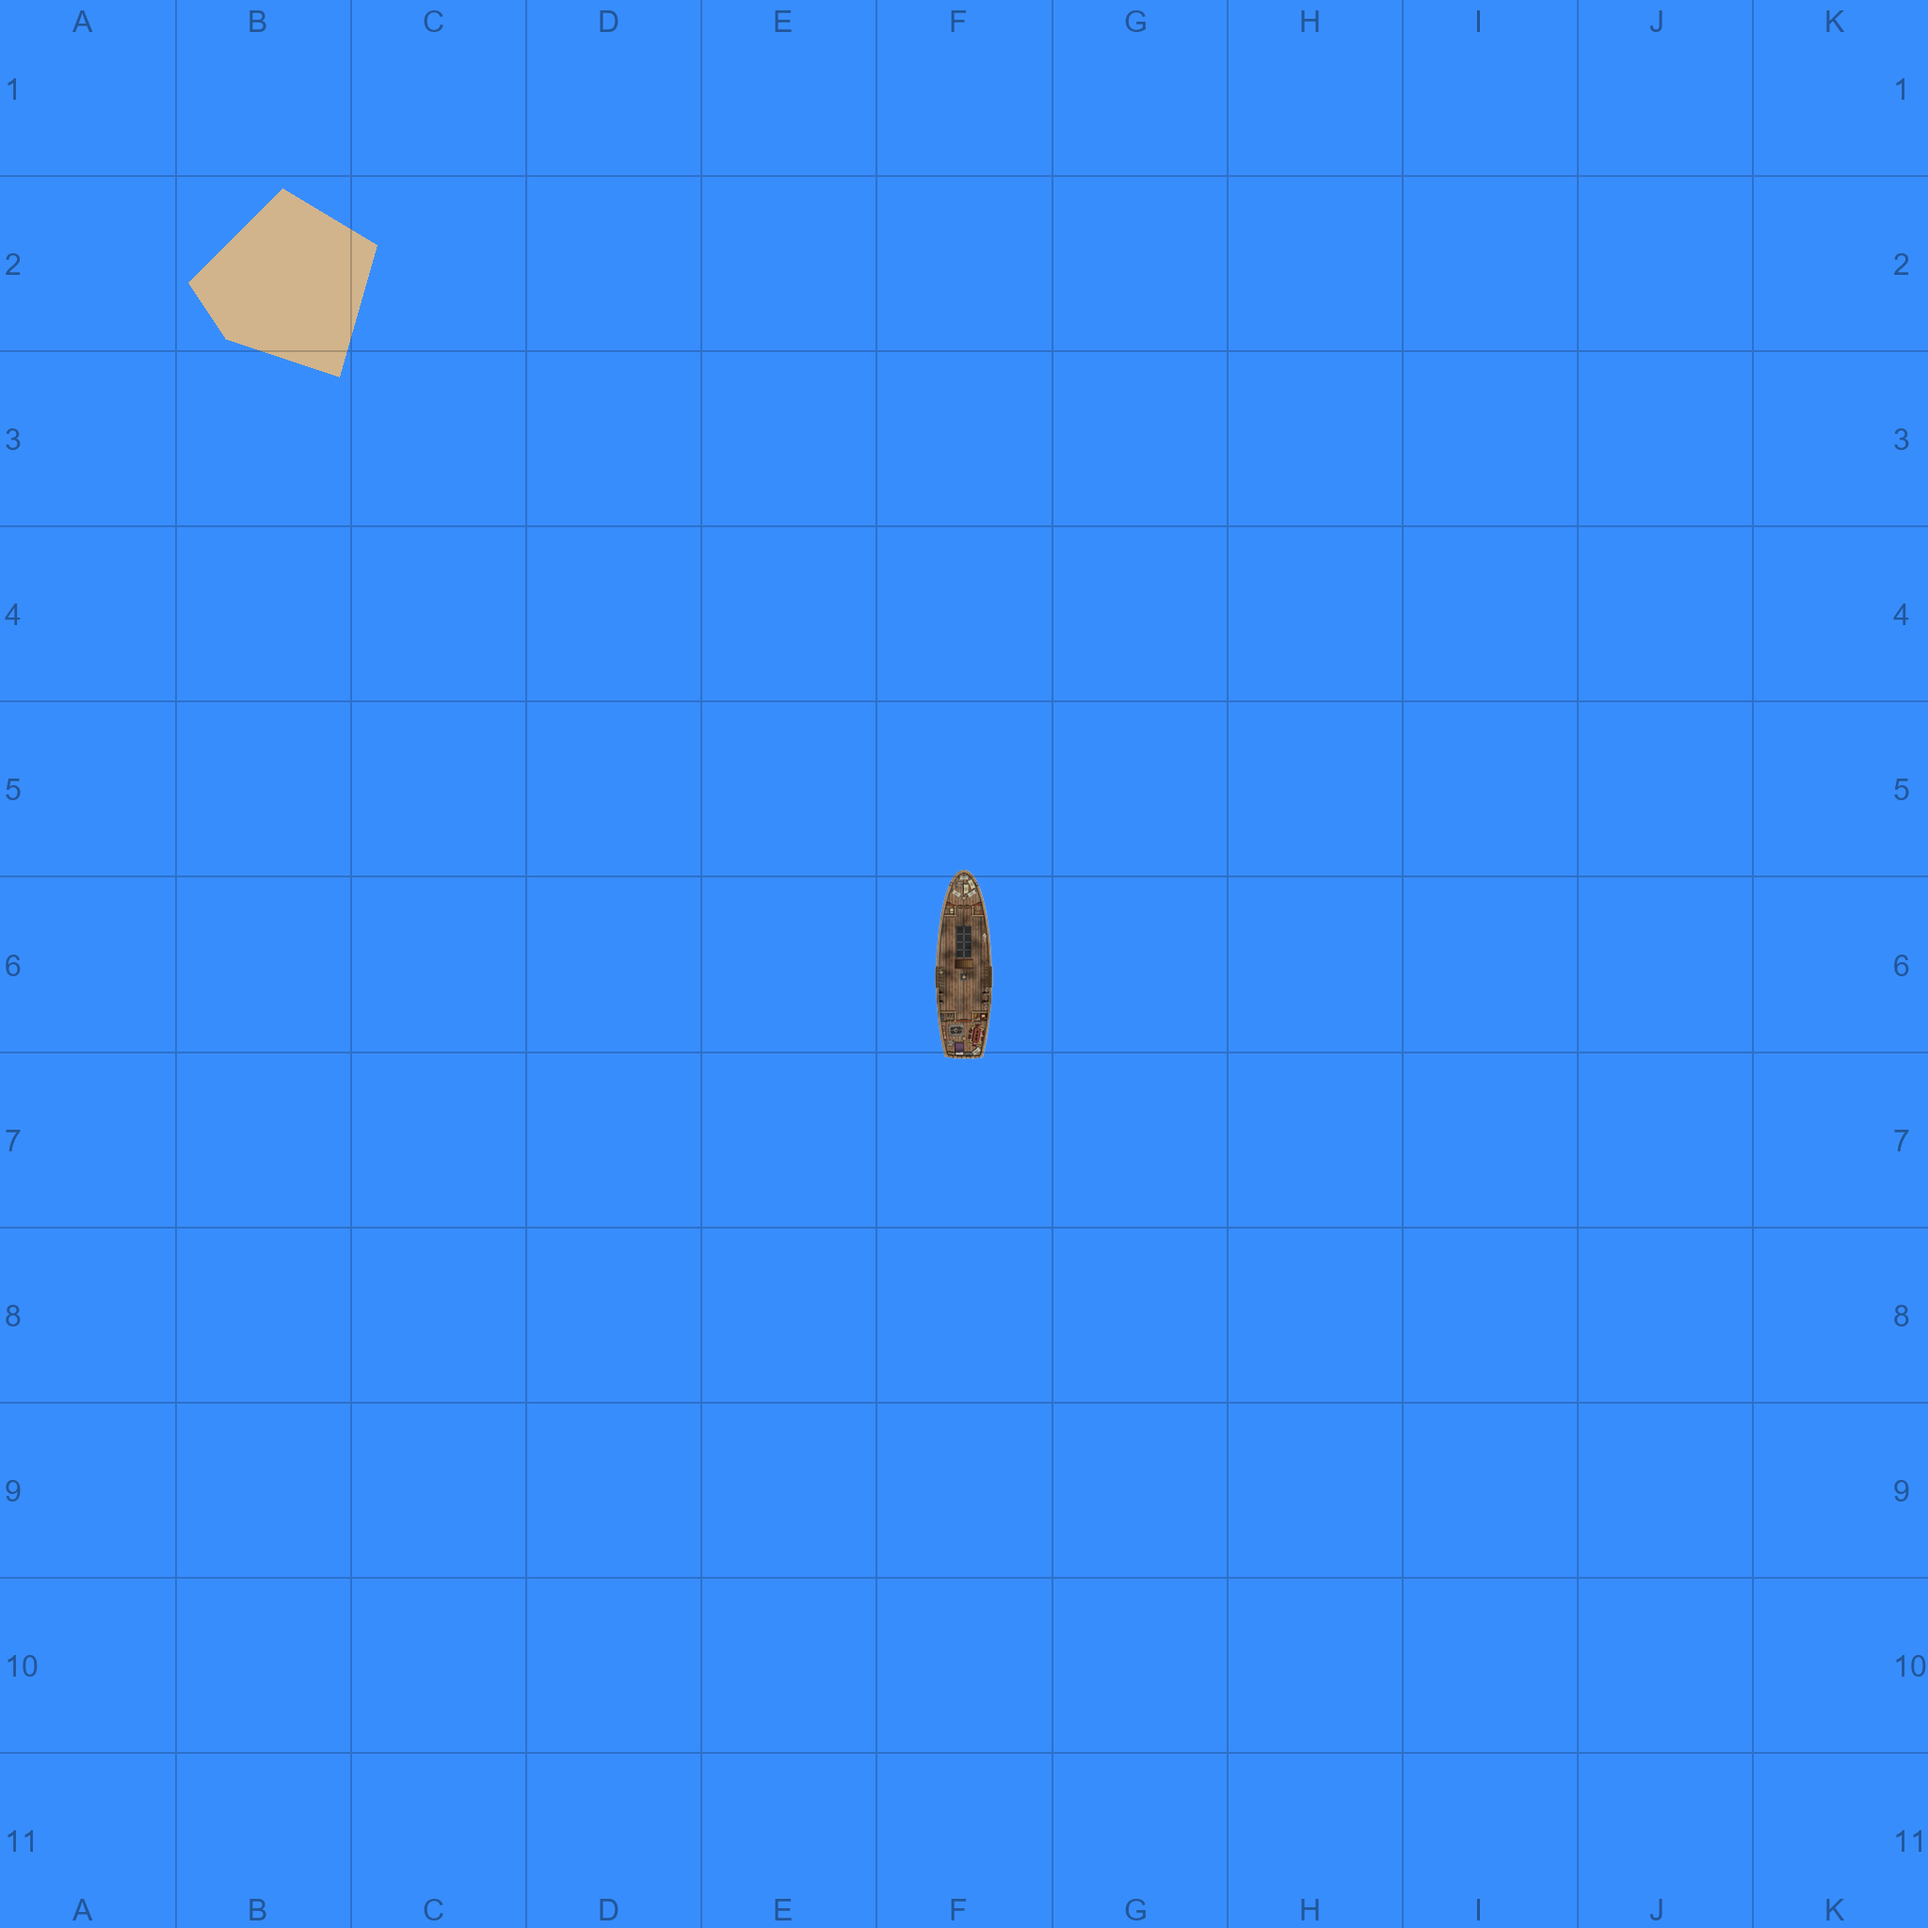
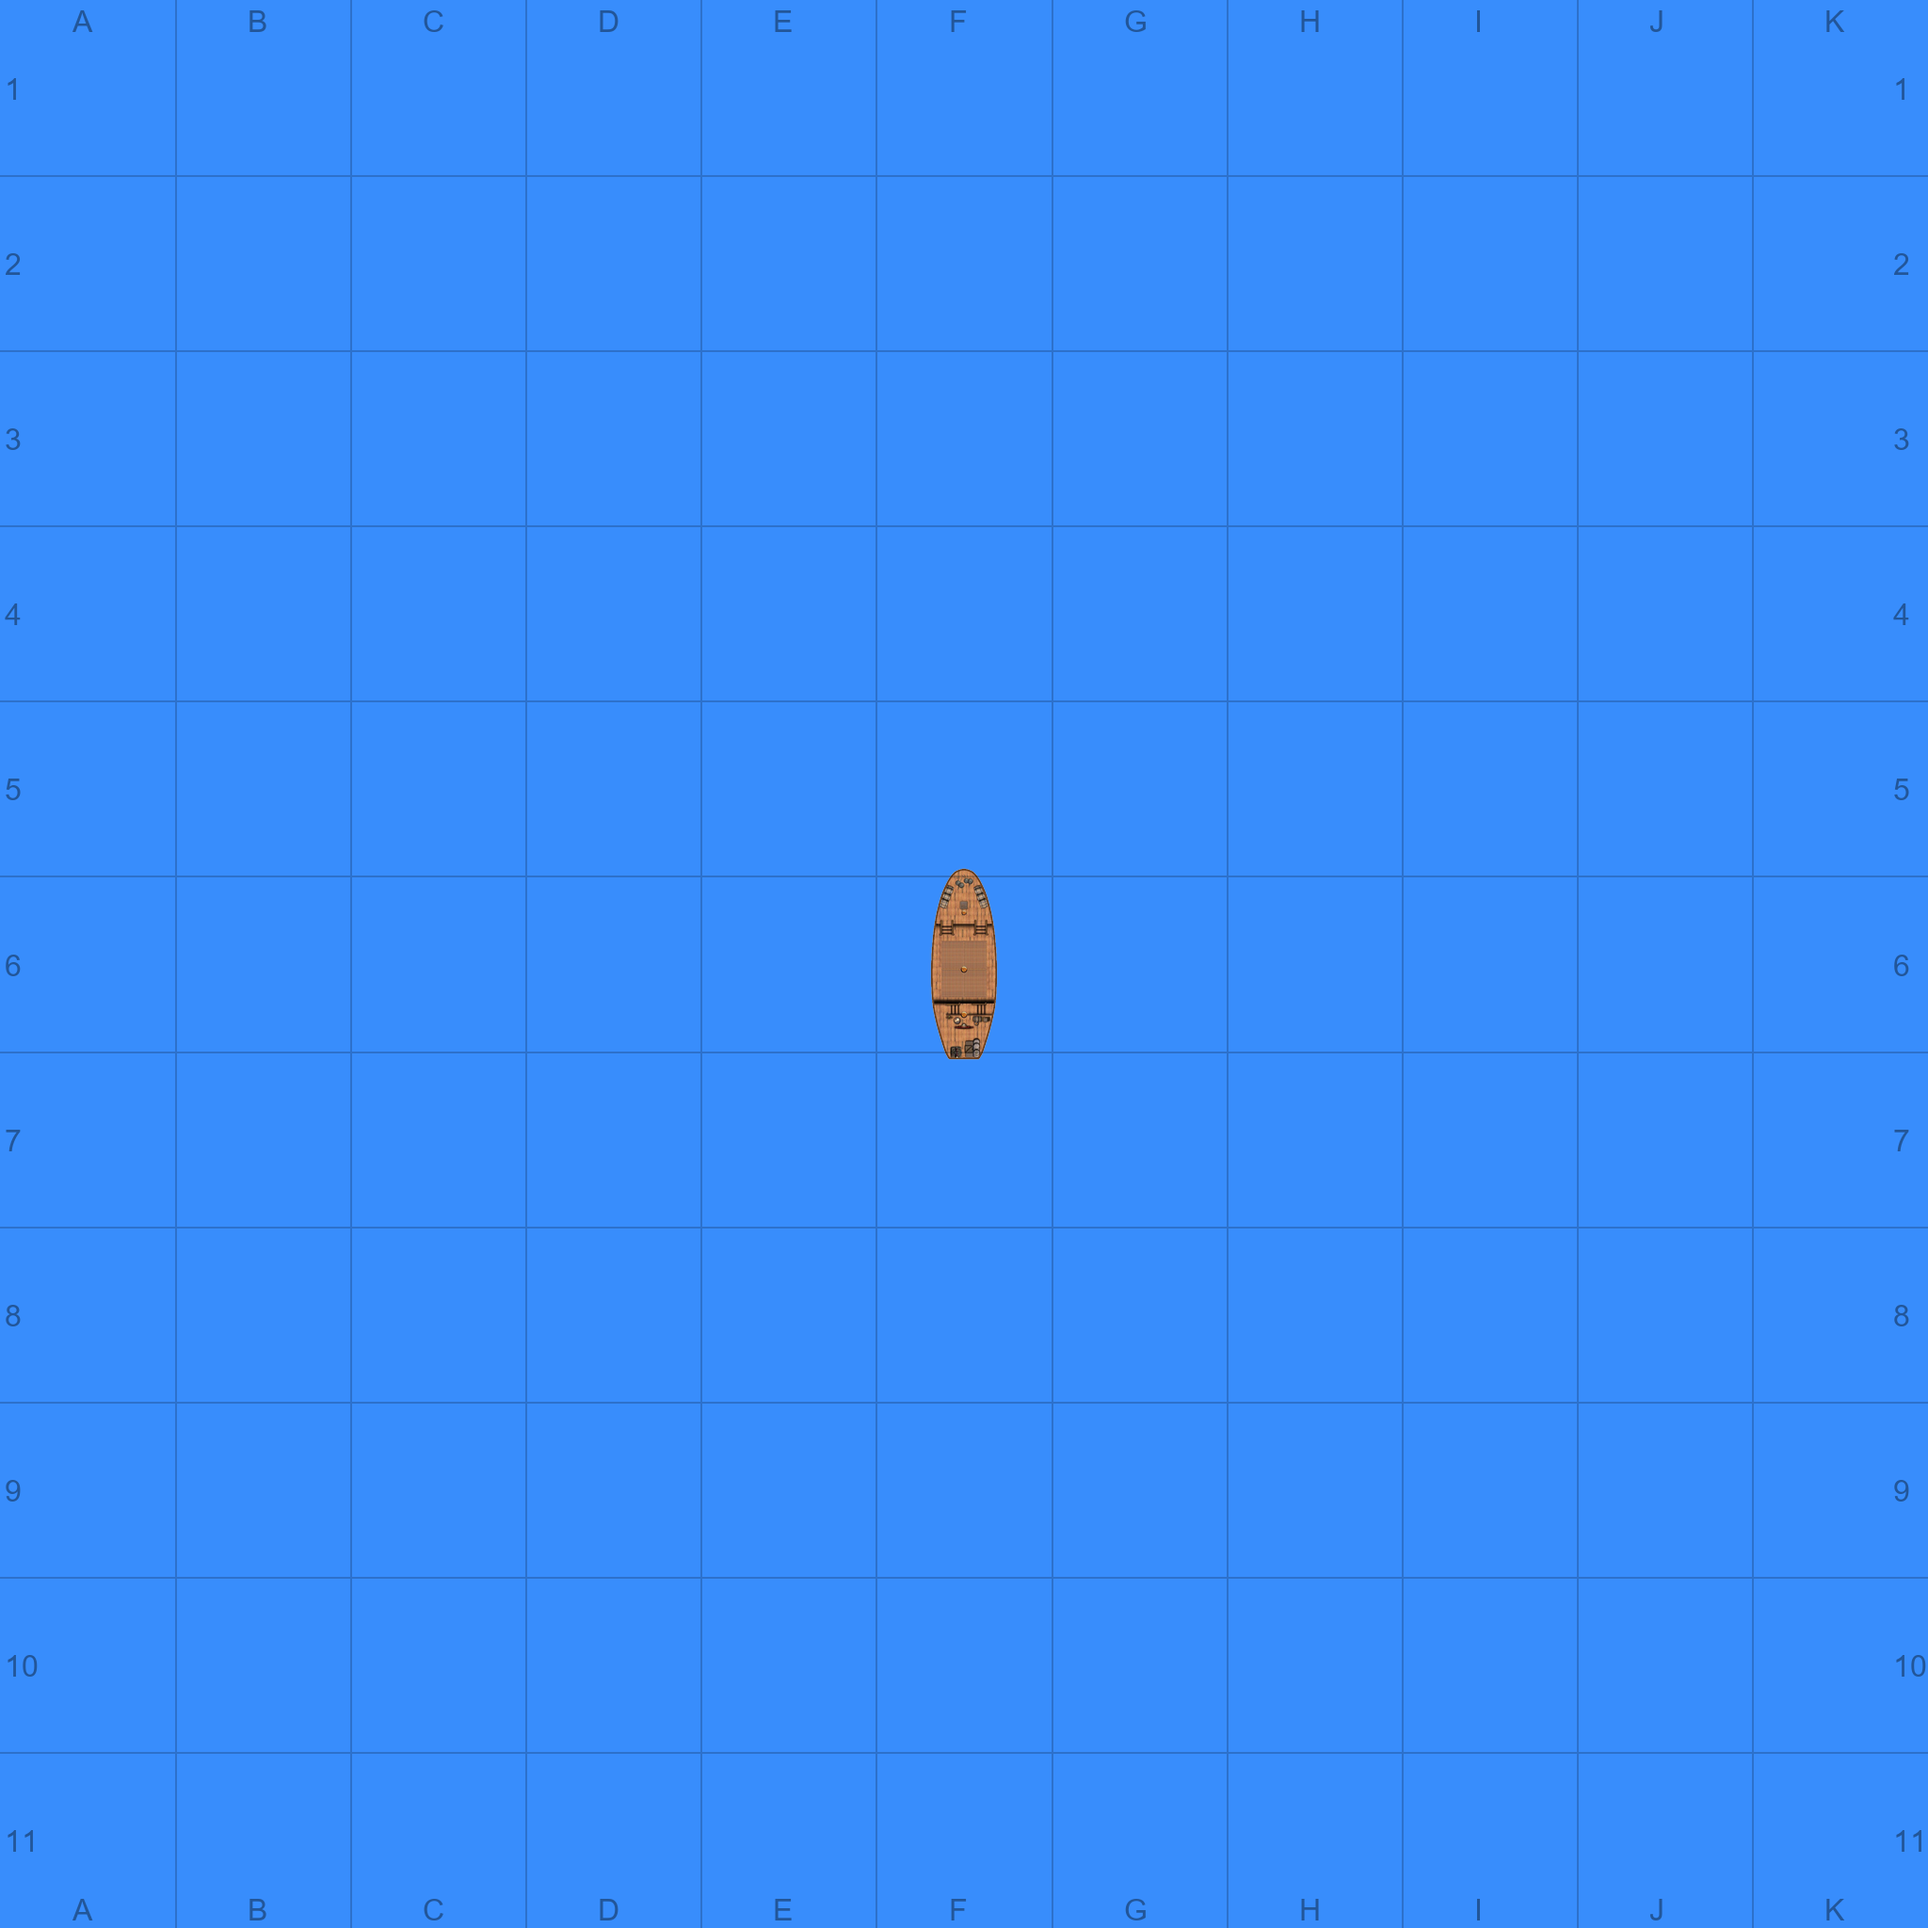
ядро перевысылания карты готово

Changed region(s): [[0.0938, 0.0938, 0.2188, 0.2188], [0.4688, 0.4375, 0.5312, 0.5625]]

diff --git a/mechanics/game_core.py b/mechanics/game_core.py
@@ -1,10 +1,14 @@
 import asyncio
 import random
 
+from aiogram.filters import and_f
+
 from core.vector2 import Vector2
 from core.action import ActionType, Action
+from UI.map_visualizer import visualize_map_to_user
 
 # Импорт объектов карты
+from models.user import User
 from models.world_objects.map import Map
 from models.world_objects.ship import Ship
 from models.world_objects.island import Island
@@ -27,7 +31,8 @@ async def process_game():
     global maps
 
     test_map = Map()
-    test_ship = Ship(sprite_name=f"ship {random.randint(1, 5)}", position=Vector2(2, 5), rotation=90, max_hp=100)
+    test_user = User(5609117794)
+    test_ship = Ship(owner=test_user, sprite_name=f"ship {random.randint(1, 5)}", position=Vector2(2, 5), rotation=90, max_hp=100)
     test_action = Action(object_=test_ship, action_type=ActionType.move, value=0)
     test_map.add_new_object(test_ship)
 
@@ -44,10 +49,18 @@ async def process_game():
             short_step_num += 1
             if short_step_num >= short_steps_in_basic_step:
                 process_map_iteration(map_, False)
+                short_step_num = 0
+
+            update_visual_map(map_)
 
 
 def process_map_iteration(map_, short_update):
-    for delayed_action in map_.delayed_actions:
+    if not short_update:
+        delayed_actions_list = map_.delayed_actions
+    else:
+        delayed_actions_list = map_.short_delayed_actions
+
+    for delayed_action in delayed_actions_list:
         object_ = delayed_action.object_
         action_type = delayed_action.action_type
 
@@ -56,7 +69,7 @@ def process_map_iteration(map_, short_update):
             if type(object_) == Ship:
                 match delayed_action.value:
                     case 0: # Вверх
-                        object_.position.move(Vector2(0, 1))
+                        object_.position.add(Vector2(0, 1))
 
         # Удаляем это действие из списка ожидаемых действий, так как только что выполнили его
         map_.delayed_actions.remove(delayed_action)
@@ -65,4 +78,24 @@ def process_map_iteration(map_, short_update):
         map_.add_changed_square(object_)
 
 
+def update_visual_map(map_):
+    showed_changed_squares = dict() # Сюда добавляем квадраты на карте, которые уже были "погашены", то есть игроки их увидели
+    users_to_update_map = dict()
+    for object_ in map_.objects:
+        if type(object_) == Ship and type(object_.owner) == User:
+            min_view_limits = object_.position.summ(Vector2(-object_.field_of_view, -object_.field_of_view))
+            max_view_limits = object_.position.summ(Vector2(object_.field_of_view, object_.field_of_view))
 
+            for changed_square in map_.changed_squares:
+                # Проверка лежит ли изменённый квадрат в области видимости игрока
+                if min_view_limits.x <= changed_square.x <= max_view_limits.x and min_view_limits.y <= changed_square.y <= max_view_limits.y:
+                    showed_changed_squares[Vector2(changed_square.x, changed_square.y)] = True
+                    users_to_update_map[object_.owner] = True
+
+    # Отсылаем карты заново кому надо
+    for user in users_to_update_map.keys():
+        visualize_map_to_user(user)
+
+    # Удаляем "погашенные" квадраты из списка
+    for showed_changed_square in showed_changed_squares.keys():
+        map_.changed_squares = [changed_square for changed_square in map_.changed_squares if not changed_square.equals(showed_changed_square)]

diff --git a/UI/map_visualizer.py b/UI/map_visualizer.py
@@ -96,14 +96,15 @@ def add_grid(
     base_image.alpha_composite(text_layer)
 
 
-def generate_map(map, resolution = 2048):
+def visualize_map_to_user(user):
+    resolution = 2048
     width, height = resolution, resolution  # Размер карты
     base_image = create_background(width, height)
 
     center = Vector2(resolution / 2, resolution / 2)
 
     # Добавляем остров
-    add_island(base_image, island)
+    #add_island(base_image, island)
 
     # Добавляем корабль
     ship_image_path = images_operator.get_image_path_from_ship_name(f"ship {random.randint(1, 5)}")  # Заменить на путь к твоему изображению
@@ -118,4 +119,4 @@ def generate_map(map, resolution = 2048):
     print(f"Карта сохранена в {map_path}")
 
 
-generate_map()
+#visualize_map_to_user()

diff --git a/core/vector2.py b/core/vector2.py
@@ -4,9 +4,18 @@ class Vector2:
         self.x = x
         self.y = y
 
-    def move(self, delta_pos):
+    def add(self, delta_pos):
         self.x += delta_pos.x
         self.y += delta_pos.y
 
+    def summ(self, delta_pos):
+        return Vector2(self.x + delta_pos.x, self.y + delta_pos.y)
+
     def to_str(self):
         return f'Vector2({self.x}, {self.y})'
+
+    def equals(self, compare_to) -> bool:
+        if self.x == compare_to.x and self.y == compare_to.y:
+            return True
+        else:
+            return False

diff --git a/models/world_objects/ship.py b/models/world_objects/ship.py
@@ -3,9 +3,12 @@ from models.world_objects.game_object import GameObject
 
 
 class Ship(GameObject):
-    def __init__(self, position, sprite_name, rotation, max_hp):
+    def __init__(self, owner, position, sprite_name, rotation, max_hp, field_of_view = 5):
         super().__init__(position)
+        self.owner = owner
+
         self.sprite_name = sprite_name
         self.rotation = rotation
         self.max_hp = max_hp
         self.hp = max_hp
+        self.field_of_view = field_of_view
